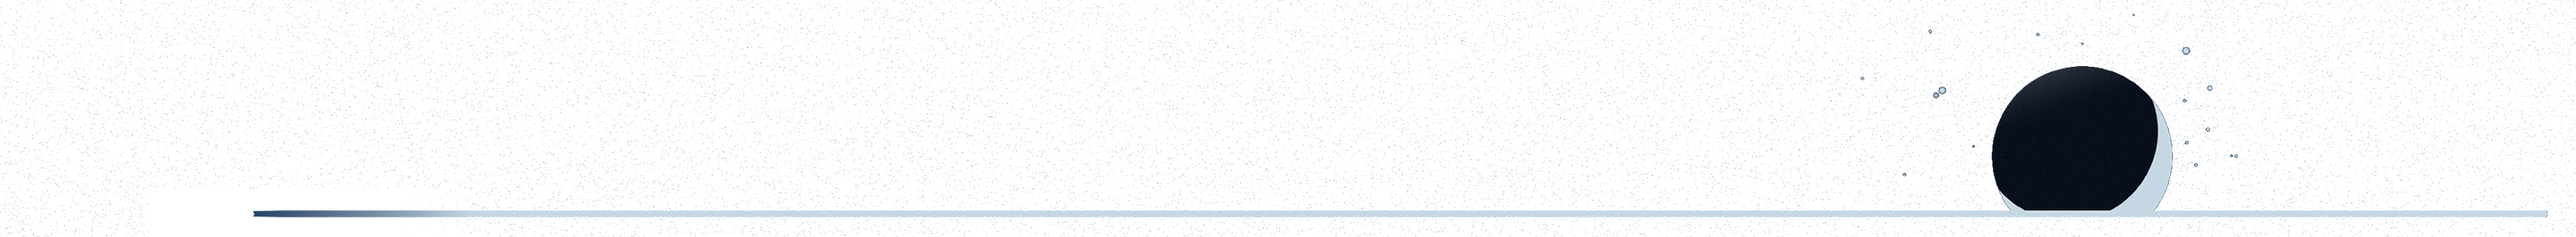
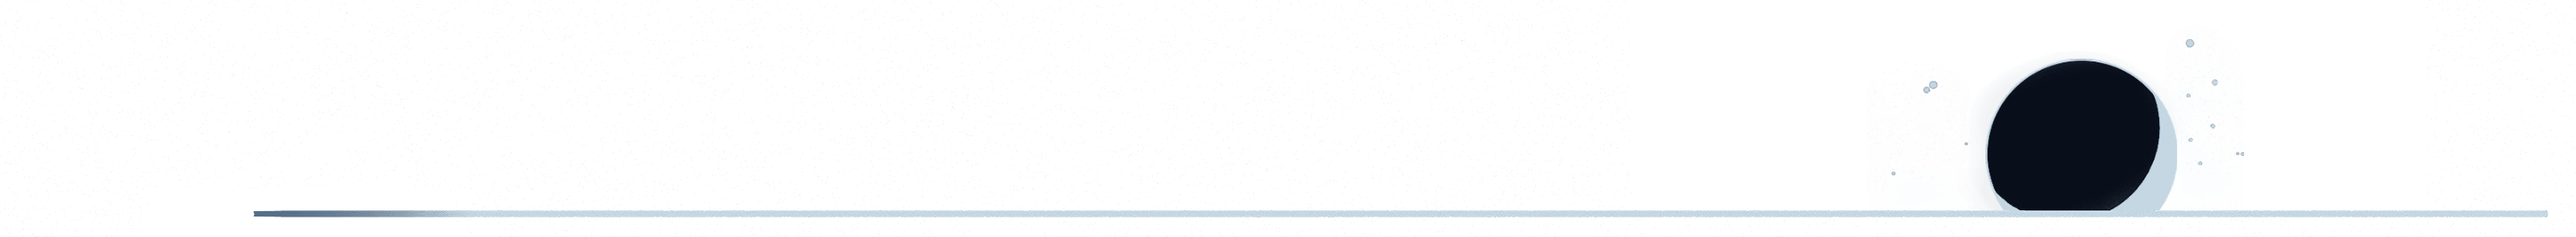
Updated images for mobile for higher resolution on retina screens

diff --git a/src/components/challenge-group/YourWins.tsx b/src/components/challenge-group/YourWins.tsx
@@ -3,13 +3,15 @@ const fontSans3 = { fontFamily: 'var(--font-source-sans-3), sans-serif' };
 // Dummy wins — the real entries will come from the member's check-ins for the
 // current challenge group, newest first, once that is wired to the backend.
 const WINS = [
-  'Walked past the snack aisle without stopping',
-  'Took the stairs at work all week',
-  'Slept seven hours three nights in a row',
+  { text: 'Walked past the snack aisle without stopping', date: 'Aug 18' },
+  { text: 'Took the stairs at work all week', date: 'Sep 22' },
+  { text: 'Slept seven hours three nights in a row', date: 'Aug 15' },
+  { text: 'Completed the 30-day challenge', date: 'Sep 10' }, // added win
+  { text: 'Drank 8 glasses of water daily', date: 'Sep 5' }, // added win
 ];
 
 type Props = {
-  wins?: string[];
+  wins?: { text: string; date: string }[];
 };
 
 /** Gold sparkle shown at the start of each win row. */
@@ -28,30 +30,8 @@ function SparkleIcon() {
   );
 }
 
-/** Decorative scroll rail from the mockup (track, thumb and arrow ends). */
-function ScrollRail() {
-  return (
-    <div
-      aria-hidden="true"
-      className="flex shrink-0 flex-col items-center justify-between rounded-full bg-[#c5d7e2]"
-      style={{ width: 'clamp(10px, 1.1806vw, 17px)', padding: 'clamp(3px, 0.4167vw, 6px) 0' }}
-    >
-      <svg viewBox="0 0 10 8" style={{ width: '70%', height: 'auto' }}>
-        <path d="M5 0l5 8H0z" fill="#13233a" />
-      </svg>
-      <div
-        className="rounded-[1px] bg-[#13233a]"
-        style={{ width: '70%', height: 'clamp(8px, 1.0417vw, 15px)' }}
-      />
-      <svg viewBox="0 0 10 8" style={{ width: '70%', height: 'auto' }}>
-        <path d="M0 0h10L5 8z" fill="#13233a" />
-      </svg>
-    </div>
-  );
-}
-
 /**
- * "Your Recent Wins" card: the member's latest challenge-group wins, each with
+ * \"Your Recent Wins\" card: the member's latest challenge-group wins, each with
  * a gold sparkle and hairline separator, plus a link through to the full list.
  * Palette colors; charcoal card like the other sections.
  */
@@ -84,32 +64,32 @@ export function YourWins({ wins = WINS }: Props) {
         className="flex"
         style={{ gap: 'clamp(8px, 1.1111vw, 16px)', marginTop: 'clamp(8px, 1.1111vw, 16px)' }}
       >
-        <ScrollRail />
-
         <div className="min-w-0 flex-1">
-          <ul>
-            {wins.map((win, index) => (
-              <li
-                key={win}
-                className={index > 0 ? 'border-t border-[#c5d7e2]/25' : undefined}
-                style={{ paddingBlock: 'clamp(5px, 0.8333vw, 12px)' }}
-              >
-                <div className="flex items-center" style={{ gap: 'clamp(8px, 1.1111vw, 16px)' }}>
-                  <SparkleIcon />
-                  <p
-                    className="text-[#dbe7ee]"
-                    style={{
-                      ...fontSans3,
-                      fontSize: 'clamp(14px, 1.875vw, 27px)',
-                      lineHeight: 1.25,
-                    }}
-                  >
-                    {win}
-                  </p>
-                </div>
-              </li>
-            ))}
-          </ul>
+          <div className="h-64 overflow-y-auto">
+            <ul>
+              {wins.map((win, index) => (
+                <li
+                  key={win.text}
+                  className={index > 0 ? 'border-t border-[#c5d7e2]/25' : undefined}
+                  style={{ paddingBlock: 'clamp(5px, 0.8333vw, 12px)' }}
+                >
+                  <div className="flex items-center" style={{ gap: 'clamp(8px, 1.1111vw, 16px)' }}>
+                    <SparkleIcon />
+                    <p
+                      className="text-[#dbe7ee]"
+                      style={{
+                        ...fontSans3,
+                        fontSize: 'clamp(14px, 1.875vw, 27px)',
+                        lineHeight: 1.25,
+                      }}
+                    >
+                      {win.text} <span className="text-sm text-[#8892a5] ml-auto">{win.date}</span>
+                    </p>
+                  </div>
+                </li>
+              ))}
+            </ul>
+          </div>
 
           <a
             href="#"

diff --git a/src/components/checkin/CheckInHeader.tsx b/src/components/checkin/CheckInHeader.tsx
@@ -17,31 +17,29 @@ const dropdownFontStyle = { ...fontSans3, fontSize: 'clamp(12px, 1.1111vw, 16px)
 // Time-of-day header artwork, per the check-in-page design: sunrise 4am–12pm,
 // sun and clouds 12pm–8pm, crescent moon 8pm–4am (viewer's local time). Each
 // composition uses its own purpose-built strip with the divider baked in
-// (gold by day, silver at night), so no CSS divider is drawn: desktop
-// 1440x133, tablet-mobile (530–767px) 768x60, phone-mobile (<530px) 375x116.
-// The desktop strip has a 1x/2x pair; the mobile strips are 1x only.
+// (gold by day, silver at night), so no CSS divider is drawn. Every crop ships
+// a single high-resolution master and next/image downscales it: desktop
+// 2880x266 (1440x133 design), tablet (530–767px) 2880x225 (768x60 design),
+// phone (<530px) 859x266 (375x116 design).
 function artworkForHour(hour: number) {
   if (hour >= 4 && hour < 12) {
     return {
-      src: '/images/sunriseHR_1440x133px.png',
-      src2x: '/images/sunriseHR_2880x266px.png',
-      tabletSrc: '/images/sunriseHR_mobile_768x60px.png',
-      phoneSrc: '/images/sunriseHR_mobile_375x116px.png',
+      src: '/images/sunriseHR_2880x266px.png',
+      tabletSrc: '/images/sunriseHR_mobile_2880x225px.png',
+      phoneSrc: '/images/sunriseHR_mobile_859x266px.png',
     };
   }
   if (hour >= 12 && hour < 20) {
     return {
-      src: '/images/sunAndCloudsHR_1440x133px.png',
-      src2x: '/images/sunAndCloudsHR_2880x266px.png',
-      tabletSrc: '/images/sunAndCloudsHR_mobile_768x60px.png',
-      phoneSrc: '/images/sunAndCloudsHR_mobile_375x116px.png',
+      src: '/images/sunAndCloudsHR_2880x266px.png',
+      tabletSrc: '/images/sunAndCloudsHR_mobile_2880x225px.png',
+      phoneSrc: '/images/sunAndCloudsHR_mobile_859x266px.png',
     };
   }
   return {
-    src: '/images/crescentMoonHR_1440x133px.png',
-    src2x: '/images/crescentMoonHR_2880x266px.png',
-    tabletSrc: '/images/crescentMoonHR_mobile_768x60px.png',
-    phoneSrc: '/images/crescentMoonHR_mobile_375x116px.png',
+    src: '/images/crescentMoonHR_2880x266px.png',
+    tabletSrc: '/images/crescentMoonHR_mobile_2880x225px.png',
+    phoneSrc: '/images/crescentMoonHR_mobile_859x266px.png',
   };
 }
 
@@ -224,12 +222,13 @@ export function CheckInHeader({
       font size is vw-proportional, so the composition scales as one piece. */}
       <div className="relative mx-auto hidden w-full max-w-[1440px] aspect-[1440/215] md:block">
         {artwork ? (
-          <img
+          <Image
             src={artwork.src}
-            srcSet={`${artwork.src} 1x, ${artwork.src2x} 2x`}
             alt=""
-            decoding="async"
-            className="pointer-events-none absolute left-0 top-0 z-0 w-full"
+            width={2880}
+            height={266}
+            sizes="(min-width: 1440px) 1440px, 100vw"
+            className="pointer-events-none absolute left-0 top-0 z-0 h-auto w-full"
           />
         ) : null}
 
@@ -350,10 +349,12 @@ export function CheckInHeader({
         object-right, so the sun/moon and the divider always survive. */}
         <div className="relative hidden h-[174px] min-[530px]:block">
           {artwork ? (
-            <img
+            <Image
               src={artwork.tabletSrc}
               alt=""
-              decoding="async"
+              width={2880}
+              height={225}
+              sizes="100vw"
               className="pointer-events-none absolute inset-x-0 bottom-[9px] h-[60px] w-full object-cover object-right-bottom"
             />
           ) : null}
@@ -421,11 +422,13 @@ export function CheckInHeader({
         the viewport (exact mockup at 375px, stretched above it). */}
         <div className="relative min-[530px]:hidden pt-[24px]">
           {artwork ? (
-            <img
+            <Image
               src={artwork.phoneSrc}
               alt=""
-              decoding="async"
-              className="pointer-events-none block w-full"
+              width={859}
+              height={266}
+              sizes="(max-width: 529px) 100vw, 375px"
+              className="pointer-events-none block h-auto w-full"
             />
           ) : null}
 

diff --git a/src/components/home/Hero.tsx b/src/components/home/Hero.tsx
@@ -145,20 +145,17 @@ export function Hero({ home, settings, displayName = null }: Props) {
       simply crops to whatever height results. */}
       {/* Static hero background image — art-directed: 1:1 composition on mobile,
       panoramic on desktop. Plain <img> inside <picture> (not next/image) so the
-      hand-optimized WebP variants are served byte-for-byte with no re-encoding.
-      The media query matches Tailwind's md: breakpoint (768px), so the browser
-      downloads only the correct crop, and the 1x/2x descriptors let it pick the
-      right resolution by device pixel ratio. Preload hints mirror this markup
+      hand-optimized WebP masters are served byte-for-byte with no re-encoding.
+      Each crop ships a single 2x master (~33K desktop, ~15K mobile); the browser
+      downscales it, so retina screens stay sharp and 1x screens pay only a few
+      extra KB. The media query matches Tailwind's md: breakpoint (768px), so the
+      browser downloads only the correct crop. Preload hints mirror this markup
       in src/app/(frontend)/page.tsx. */}
       <div className="absolute inset-0">
         <picture>
-          <source
-            media="(max-width: 767px)"
-            srcSet="/images/hero/hero-mobile_1x.webp 1x, /images/hero/hero-mobile_2x.webp 2x"
-          />
+          <source media="(max-width: 767px)" srcSet="/images/hero/hero-mobile_2x.webp" />
           <img
-            src="/images/hero/hero_1x.webp"
-            srcSet="/images/hero/hero_1x.webp 1x, /images/hero/hero_2x.webp 2x"
+            src="/images/hero/hero_2x.webp"
             alt=""
             fetchPriority="high"
             decoding="async"

diff --git a/src/app/(frontend)/page.tsx b/src/app/(frontend)/page.tsx
@@ -71,22 +71,16 @@ export default async function Home() {
   return (
     <>
       {/* Preload the LCP hero image so the browser starts fetching before the
-      Hero component renders. The media queries mirror the <picture> markup in
-      Hero.tsx, so only the correct crop + resolution variant is fetched. */}
+      Hero component renders. Each crop ships a single 2x master, so the media
+      queries mirror the <picture> markup in Hero.tsx exactly — one URL per
+      breakpoint, no srcset/sizes matching to keep in sync. */}
       <link
         rel="preload"
         as="image"
         media="(max-width: 767px)"
-        imageSrcSet="/images/hero/hero-mobile_1x.webp 1x, /images/hero/hero-mobile_2x.webp 2x"
-        imageSizes="100vw"
+        href="/images/hero/hero-mobile_2x.webp"
       />
-      <link
-        rel="preload"
-        as="image"
-        media="(min-width: 768px)"
-        imageSrcSet="/images/hero/hero_1x.webp 1x, /images/hero/hero_2x.webp 2x"
-        imageSizes="100vw"
-      />
+      <link rel="preload" as="image" media="(min-width: 768px)" href="/images/hero/hero_2x.webp" />
       <Hero home={home} settings={settings} displayName={account?.displayName ?? null} />
 
       {/* Admin-managed sections (src/globals/PageSections.ts). Full-width

diff --git a/src/components/home/Manifesto.tsx b/src/components/home/Manifesto.tsx
@@ -1,3 +1,5 @@
+import Image from 'next/image';
+
 type ManifestoProps = {
   quote?: string;
   imageUrl?: string;
@@ -10,11 +12,9 @@ export function Manifesto({
   return (
     <section className="relative mx-auto max-w-6xl overflow-hidden rounded-2xl bg-stone-50">
       {imageUrl && (
-        <img
-          src={imageUrl}
-          alt=""
-          className="absolute inset-y-0 right-0 z-0 hidden h-full w-1/2 object-cover md:block"
-        />
+        <div className="absolute inset-y-0 right-0 z-0 hidden w-1/2 md:block">
+          <Image src={imageUrl} alt="" fill sizes="50vw" className="object-cover" />
+        </div>
       )}
 
       <div className="relative z-10 flex min-h-[280px] w-full items-center px-6 sm:px-12">

diff --git a/next.config.ts b/next.config.ts
@@ -8,6 +8,11 @@ const dirname = path.dirname(__filename);
 
 const nextConfig: NextConfig = {
   images: {
+    // Defaults are 640–3840 with a 2048 gap before 3840. The check-in header
+    // artwork masters are 2880px wide (2x of the 1440px design canvas), so add
+    // 2880 as a candidate — otherwise a 1440-CSS-px @2x screen tops out at the
+    // 2048 variant and the browser upscales it.
+    deviceSizes: [640, 750, 828, 1080, 1200, 1920, 2048, 2880, 3840],
     localPatterns: [
       {
         pathname: '/api/media/file/**',
